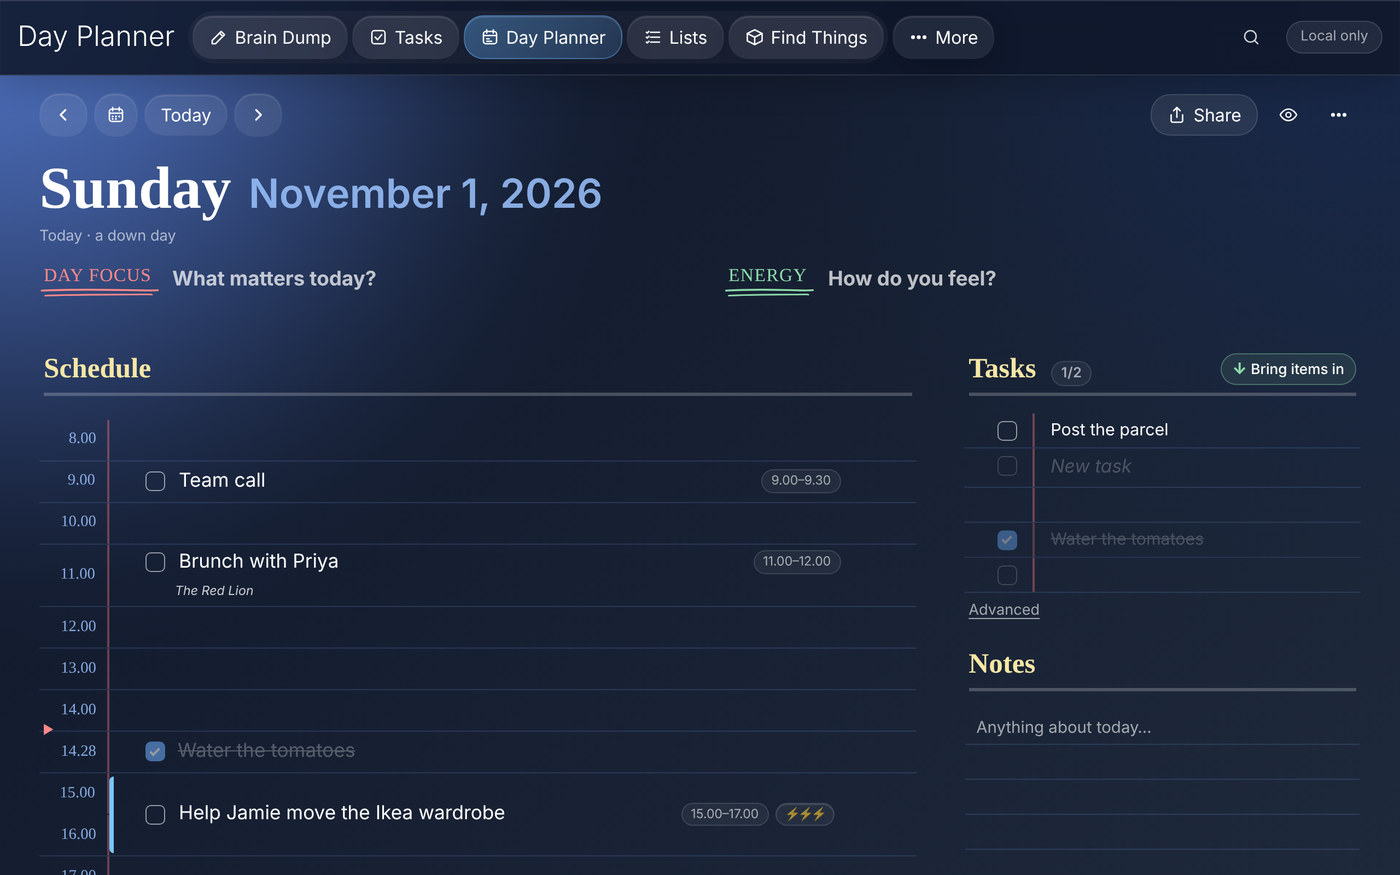
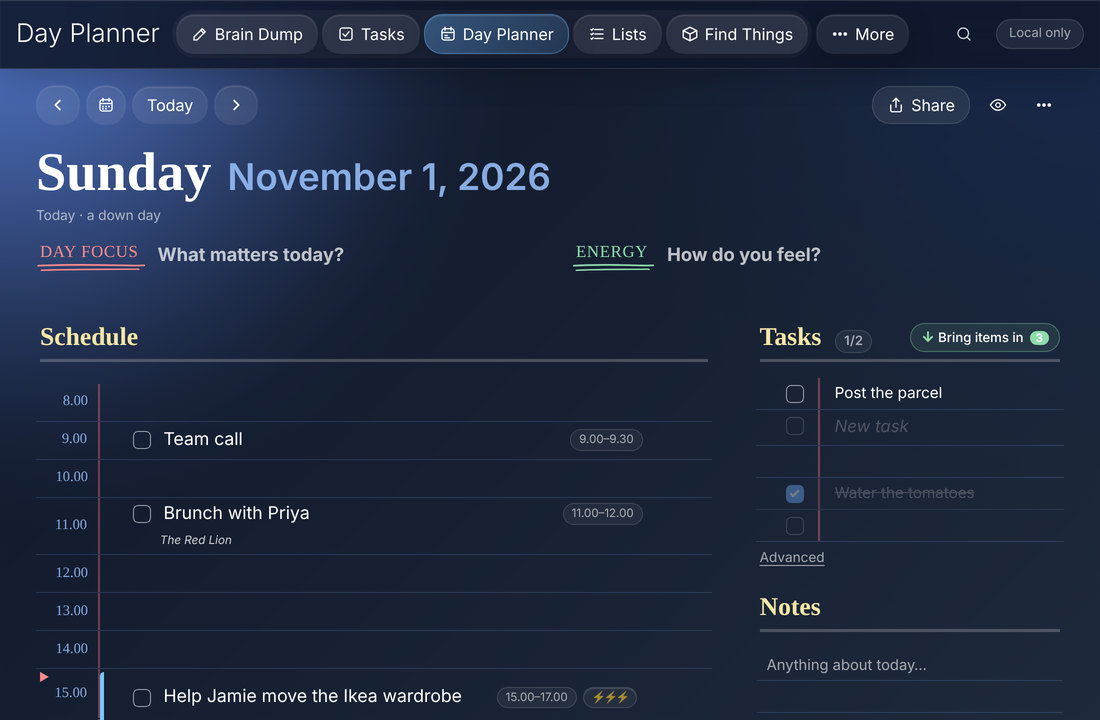
README: screenshots as one gallery, two per row

diff --git a/README.md b/README.md
@@ -6,9 +6,17 @@ A personal, local-first "life app" for people who like to get things out of thei
 
 **Try it:** https://hazymat.github.io/sift/ (everything stays in your browser until you turn sync on).
 
-## What it does
+## A look round
 
-![The Day Planner on a laptop](docs/screenshots/day-planner.jpg)
+<table>
+<tr><td width="50%"><img src="docs/screenshots/tasks.jpg" alt="Tasks: sub-tasks, and several rows chosen at once"><br><sub>Tasks: sub-tasks, and several rows chosen at once</sub></td><td width="50%"><img src="docs/screenshots/shared-project.jpg" alt="A project shared with two people, with milestones and owners"><br><sub>A project shared with two people, with milestones and owners</sub></td></tr>
+<tr><td width="50%"><img src="docs/screenshots/day-planner.jpg" alt="The Day Planner"><br><sub>The Day Planner</sub></td><td width="50%"><img src="docs/screenshots/google-calendar.jpg" alt="Bringing in what's on Google Calendar"><br><sub>Bringing in what's on Google Calendar</sub></td></tr>
+<tr><td width="50%"><img src="docs/screenshots/share-menu.jpg" alt="Share: with people, copy, print, picture or PDF"><br><sub>Share: with people, copy, print, picture or PDF</sub></td><td width="50%"><img src="docs/screenshots/print-preview.jpg" alt="Print preview for a day, calendar events included"><br><sub>Print preview for a day, calendar events included</sub></td></tr>
+<tr><td width="50%"><img src="docs/screenshots/batch-book.jpg" alt="Batch Book: a recipe"><br><sub>Batch Book: a recipe</sub></td><td width="50%"><img src="docs/screenshots/follow-along.jpg" alt="Batch Book: Follow along while you cook"><br><sub>Batch Book: Follow along while you cook</sub></td></tr>
+<tr><td width="50%"><img src="docs/screenshots/lists.jpg" alt="Lists"><br><sub>Lists</sub></td><td width="50%"><img src="docs/screenshots/scans.jpg" alt="Scans"><br><sub>Scans</sub></td></tr>
+</table>
+
+## What it does
 
 - **Tasks:** Now, Next and Later, projects with milestones, sub-tasks, energy levels, time estimates, repeats, comments and undo for everything. More on this below.
 - **Day Planner:** a lined page for today: give tasks times and lengths, carry unfinished things over, bring in what's on your Google Calendar, pick a paper style, share or print the plan.
@@ -36,15 +44,9 @@ I plan at the laptop and do things with my phone in my hand, so Sift has to be t
 
 Sync carries everything, history included: undo a change on the laptop that you made on your phone this morning. Lists, notes, recipes, projects and Day Planner days can also be shared with other people on the same server.
 
-<img src="docs/screenshots/day-planner-phone.jpg" alt="The Day Planner on a phone" width="300">
-
 ## Tasks
 
 I've paid for a lot of task apps over the years, and every one of them let me down in the same places. The simple ones are lovely for a week, then you need sub-tasks or a project with a deadline and there's nowhere to put them. The powerful ones bury you in buttons and settings before you've written anything down. Most of them only really work on one kind of device, or charge extra for sync, or sync badly. I wanted something quiet enough that it stays out of the way, with the power there when I reach for it, on every device I own. I couldn't find it, so I built it.
-
-![The Tasks list, with sub-tasks and two rows chosen](docs/screenshots/tasks-list.jpg)
-
-![A project in Tasks](docs/screenshots/tasks-project.jpg)
 
 What that means in practice:
 
@@ -61,17 +63,11 @@ What that means in practice:
 
 A place for the things you make more than once: recipes, home brew, ferments, cocktails. I wanted one place for a recipe and every time I've made it, with what I changed and how it came out.
 
-![A recipe in Batch Book](docs/screenshots/batch-book-recipe.jpg)
-
 - **Recipes** with ingredients, steps, photos and whatever details suit them (glass, serves, batch volume), sorted into books of your own.
 - **Scale it** (×⅓ up to ×4) and switch between UK and US measures.
 - **Make a batch.** A batch starts as a copy of the recipe, so you can scale it, swap ingredients and change steps without touching the original, then keep a diary of readings, tasting notes and photos as it goes.
 - **Shopping.** Mark what's in stock, and the rest goes onto a list in Lists.
 - **Follow along** while you cook: full screen, one step at a time, the ingredients for that step lit up, a one-tap timer for any wait a step mentions, and several recipes side by side. What you're cooking follows you between devices.
-
-![Follow along in Batch Book](docs/screenshots/batch-book-follow-along.jpg)
-
-<img src="docs/screenshots/batch-book-phone.jpg" alt="Batch Book on a phone" width="300">
 
 Also: **works offline**, installs to the Home Screen, keeps a full history so you can undo anything, and can print or share most pages as text, a picture or a PDF.
 
